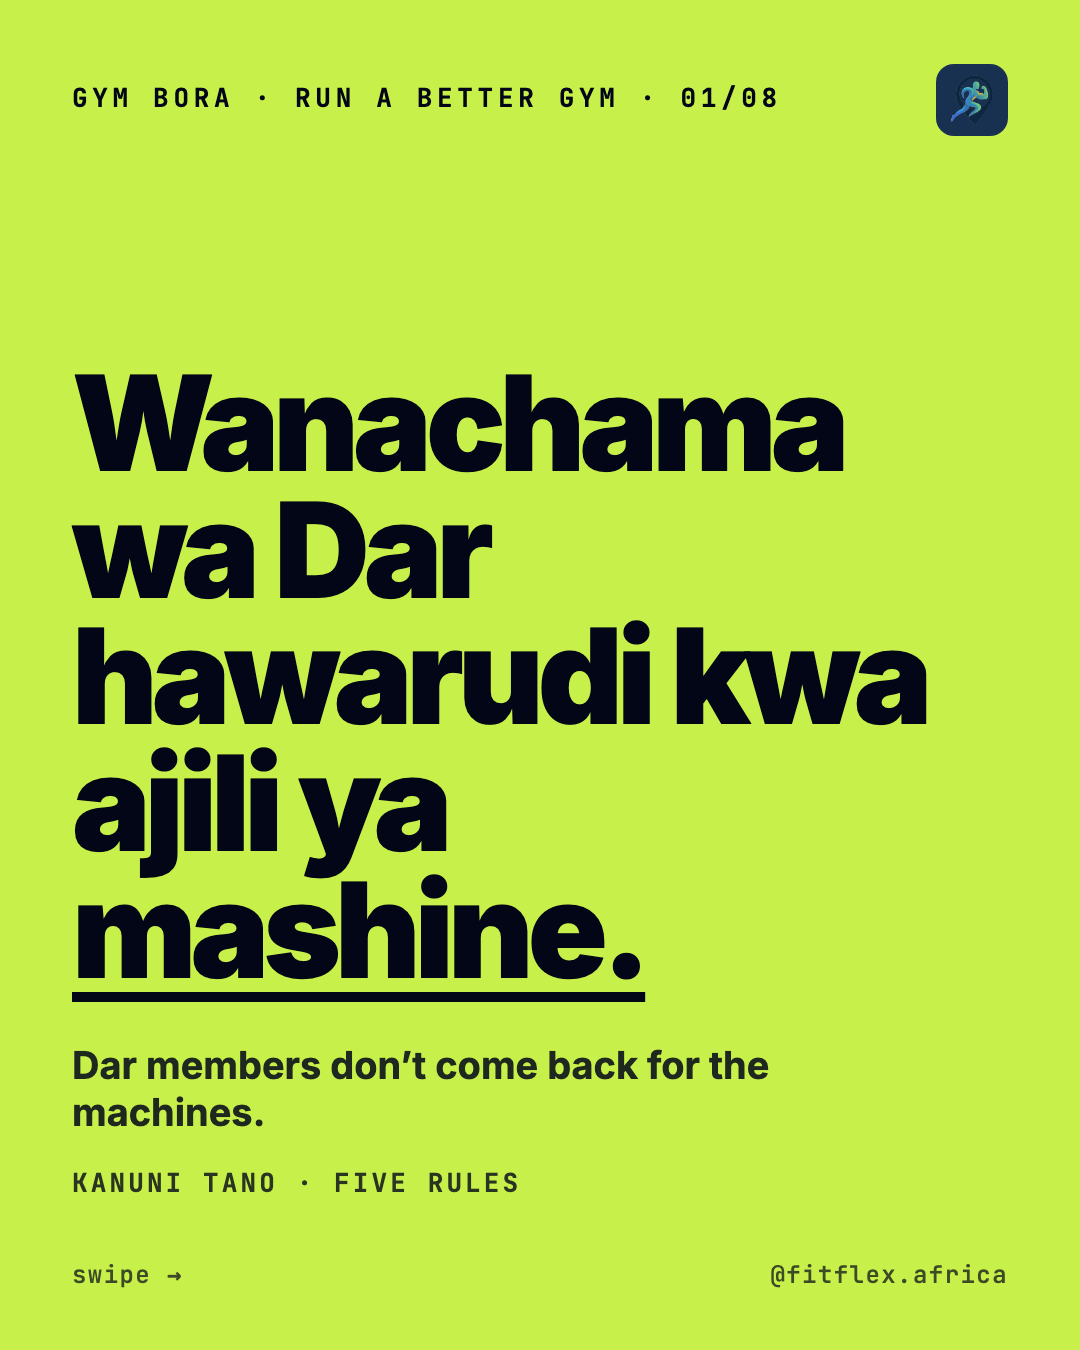
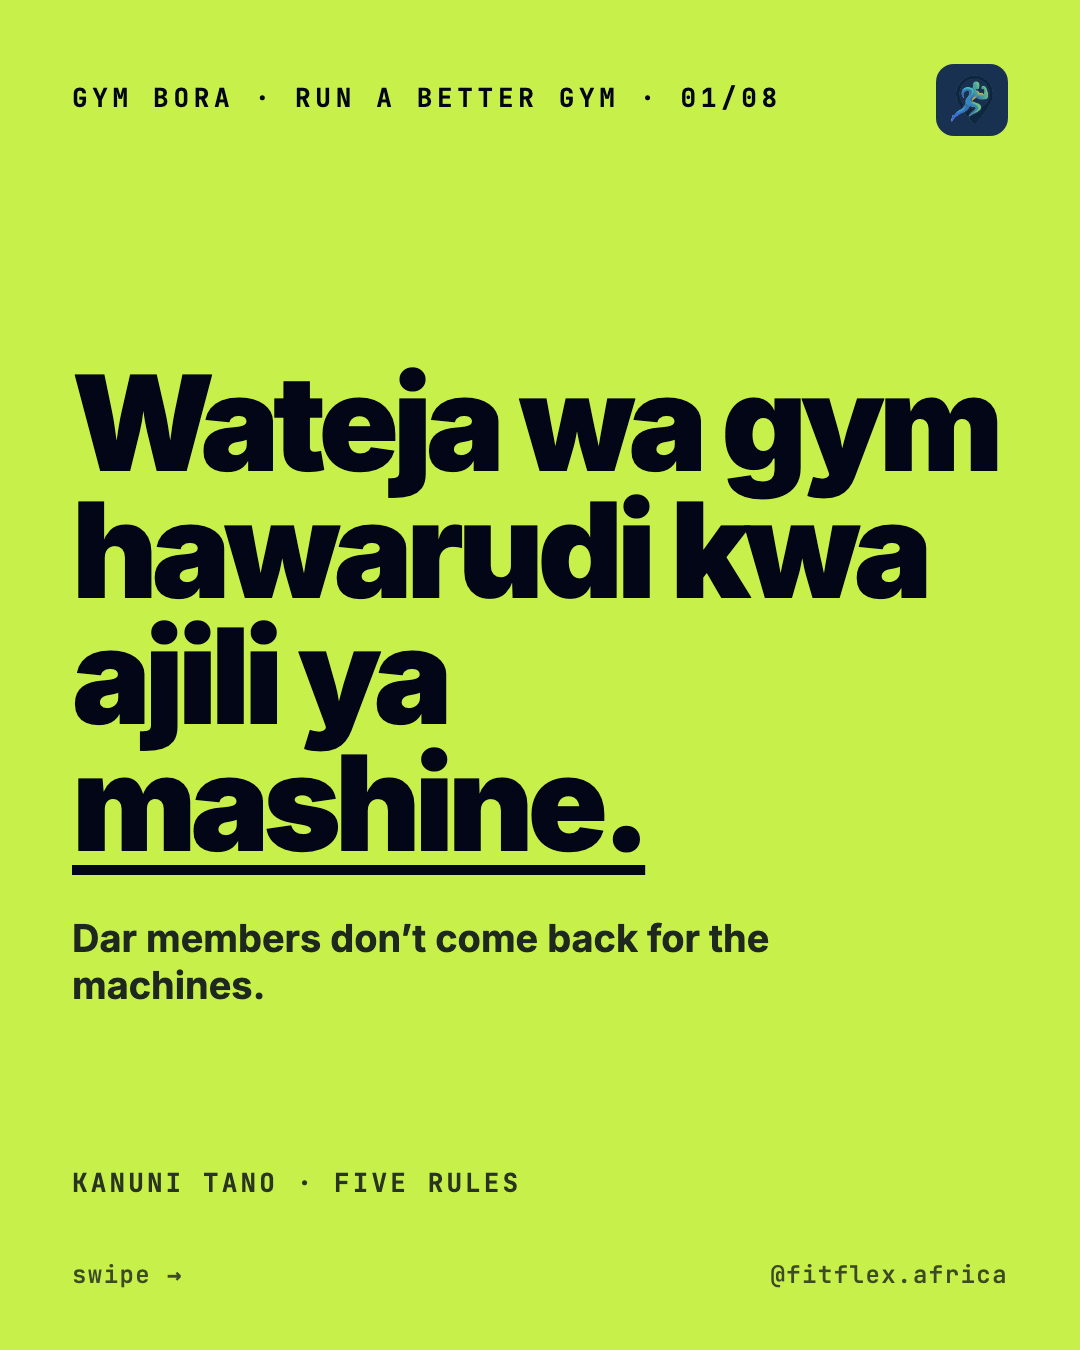
content(social): owner's Swahili edits on the five-rules carousel; Volt cover ruled, alternate with dark

Changed region(s): [[0.0611, 0.2489, 0.9472, 0.7467], [0.0611, 0.7778, 0.7333, 0.84]]

diff --git a/social/content/2026-10-W5-B-owners/source/F01.html b/social/content/2026-10-W5-B-owners/source/F01.html
@@ -13,4 +13,4 @@
  .row{display:flex;align-items:center;gap:26px;padding:26px 0;border-bottom:2px solid #1E293B}.row .mark{width:64px;height:64px;border-radius:50%;display:flex;align-items:center;justify-content:center;font-weight:900;font-size:40px}.row .t{font-weight:900;font-size:64px;letter-spacing:-2px}.row .t small{display:block;font-weight:700;font-size:28px;letter-spacing:0;color:#94A3B8}
  .card{position:absolute;left:72px;right:72px;top:300px;background:#0F172A;border:2px solid #1E293B;border-radius:36px;padding:64px}
  .bar{position:absolute;left:72px;top:150px;width:120px;height:12px;border-radius:6px;background:#C8F04A}
- </style></head><body><div class="eyebrow">Gym bora · run a better gym · 01/08</div><img class="logo" src="file:///Users/chollo/FitFlex-worktrees/social-phase1/social/brand/assets/fitflex-logo.png"><div style="position:absolute;left:72px;right:72px;top:360px"><h1 style="font-size:132px">Wanachama wa Dar hawarudi kwa ajili ya <em>mashine.</em></h1><div class="en" style="margin-top:48px;max-width:880px">Dar members don’t come back for the machines.</div></div><div style="position:absolute;left:72px;right:72px;bottom:150px;font-family:Mono;font-weight:700;font-size:26px;letter-spacing:.12em;text-transform:uppercase;color:#020617;opacity:.8">Kanuni tano · five rules</div><div class="swipe">swipe →</div><div class="handle">@fitflex.africa</div></body></html>
+ </style></head><body><div class="eyebrow">Gym bora · run a better gym · 01/08</div><img class="logo" src="file:///Users/chollo/FitFlex-worktrees/social-phase1/social/brand/assets/fitflex-logo.png"><div style="position:absolute;left:72px;right:72px;top:360px"><h1 style="font-size:132px">Wateja wa gym hawarudi kwa ajili ya <em>mashine.</em></h1><div class="en" style="margin-top:48px;max-width:880px">Dar members don’t come back for the machines.</div></div><div style="position:absolute;left:72px;right:72px;bottom:150px;font-family:Mono;font-weight:700;font-size:26px;letter-spacing:.12em;text-transform:uppercase;color:#020617;opacity:.8">Kanuni tano · five rules</div><div class="swipe">swipe →</div><div class="handle">@fitflex.africa</div></body></html>

diff --git a/social/content/2026-10-W5-B-owners/source/F02.html b/social/content/2026-10-W5-B-owners/source/F02.html
@@ -13,4 +13,4 @@
  .row{display:flex;align-items:center;gap:26px;padding:26px 0;border-bottom:2px solid #1E293B}.row .mark{width:64px;height:64px;border-radius:50%;display:flex;align-items:center;justify-content:center;font-weight:900;font-size:40px}.row .t{font-weight:900;font-size:64px;letter-spacing:-2px}.row .t small{display:block;font-weight:700;font-size:28px;letter-spacing:0;color:#94A3B8}
  .card{position:absolute;left:72px;right:72px;top:300px;background:#0F172A;border:2px solid #1E293B;border-radius:36px;padding:64px}
  .bar{position:absolute;left:72px;top:150px;width:120px;height:12px;border-radius:6px;background:#C8F04A}
- </style></head><body><div class="eyebrow">Gym bora · run a better gym · 02/08</div><div class="numeral">01</div><div style="position:absolute;left:72px;right:72px;top:520px"><h1 style="font-size:104px"><em>Karibu</em> ni rep ya kwanza.</h1><div class="en" style="margin-top:40px;max-width:900px">A greeting at the door. By name after week one. Nobody trains hard where they feel like a stranger.</div><div style="margin-top:56px"><span class="chip">Mlangoni · at the door</span></div></div><div class="swipe">swipe →</div><div class="handle">@fitflex.africa</div></body></html>
+ </style></head><body><div class="eyebrow">Gym bora · run a better gym · 02/08</div><div class="numeral">01</div><div style="position:absolute;left:72px;right:72px;top:520px"><h1 style="font-size:104px">Karibu ni <em>step</em> ya kwanza.</h1><div class="en" style="margin-top:40px;max-width:900px">A greeting at the door. By name after week one. Nobody trains hard where they feel like a stranger.</div><div style="margin-top:56px"><span class="chip">Mlangoni · at the door</span></div></div><div class="swipe">swipe →</div><div class="handle">@fitflex.africa</div></body></html>

diff --git a/social/content/2026-10-W5-B-owners/source/F06.html b/social/content/2026-10-W5-B-owners/source/F06.html
@@ -13,4 +13,4 @@
  .row{display:flex;align-items:center;gap:26px;padding:26px 0;border-bottom:2px solid #1E293B}.row .mark{width:64px;height:64px;border-radius:50%;display:flex;align-items:center;justify-content:center;font-weight:900;font-size:40px}.row .t{font-weight:900;font-size:64px;letter-spacing:-2px}.row .t small{display:block;font-weight:700;font-size:28px;letter-spacing:0;color:#94A3B8}
  .card{position:absolute;left:72px;right:72px;top:300px;background:#0F172A;border:2px solid #1E293B;border-radius:36px;padding:64px}
  .bar{position:absolute;left:72px;top:150px;width:120px;height:12px;border-radius:6px;background:#C8F04A}
- </style></head><body><div class="eyebrow">Gym bora · run a better gym · 06/08</div><div class="numeral">05</div><div style="position:absolute;left:72px;right:72px;top:520px"><h1 style="font-size:104px">Mkufunzi anayekurekebisha <em>bila kuombwa.</em></h1><div class="en" style="margin-top:40px;max-width:900px">Without being asked, without selling a package. That is the staff members talk about.</div><div style="margin-top:56px"><span class="chip">Wafanyakazi · staff</span></div></div><div class="swipe">swipe →</div><div class="handle">@fitflex.africa</div></body></html>
+ </style></head><body><div class="eyebrow">Gym bora · run a better gym · 06/08</div><div class="numeral">05</div><div style="position:absolute;left:72px;right:72px;top:520px"><h1 style="font-size:104px">Trainer anayejua <em>mazoezi.</em></h1><div class="en" style="margin-top:40px;max-width:900px">Without being asked, without selling a package. That is the staff members talk about.</div><div style="margin-top:56px"><span class="chip">Wafanyakazi · staff</span></div></div><div class="swipe">swipe →</div><div class="handle">@fitflex.africa</div></body></html>

diff --git a/social/content/2026-10-W5-B-owners/brief.md b/social/content/2026-10-W5-B-owners/brief.md
@@ -26,12 +26,12 @@ Template v3 (2026-10-20, owner asked for more engaging design and Swahili on the
 
 | # | Kind | Text | Photo |
 |---|---|---|---|
-| 1 | cover | SW: Wanachama wa Dar hawarudi kwa ajili ya mashine. — EN: Dar members don't come back for the machines. | none |
-| 2 | rule | SW: Karibu ni rep ya kwanza. — EN: A greeting at the door. By name after week one. Nobody trains hard where they feel like a stranger. Chip: Mlangoni · at the door | none |
+| 1 | cover | SW: Wateja wa gym hawarudi kwa ajili ya mashine. — EN: Dar members don't come back for the machines. | none |
+| 2 | rule | SW: Karibu ni step ya kwanza. — EN: A greeting at the door. By name after week one. Nobody trains hard where they feel like a stranger. Chip: Mlangoni · at the door | none |
 | 3 | rule | SW: Jiandae na umeme kukatika. — EN: A fan that works, water that runs, light when TANESCO lets you down. Members remember the gym that was ready. Chip: Umeme · power | none |
 | 4 | rule | SW: Chumba cha kubadilishia ndiyo review. — EN: A clean floor, a hook for the bag, a mirror that isn't cracked. That is what they describe to a friend. Chip: Usafi · cleanliness | none |
 | 5 | rule | SW: Waache walipe jinsi Dar inavyolipa. — EN: M-Pesa or Airtel Money at the desk, receipt on the phone. Not "come back tomorrow with cash". Chip: Malipo · payment | none |
-| 6 | rule | SW: Mkufunzi anayekurekebisha bila kuombwa. — EN: Without being asked, without selling a package. That is the staff members talk about. Chip: Wafanyakazi · staff | none |
+| 6 | rule | SW: Trainer anayejua mazoezi. — EN: Without being asked, without selling a package. That is the staff members talk about. Chip: Wafanyakazi · staff | none |
 | 7 | check | SW: FitFlex inakagua kila gym kabla haijajiunga. — EN: FitFlex scores every gym on all of this before it joins. Not just the weights. Rows: Vifaa, Huduma, Jengo, Wafanyakazi | none |
 | 8 | cta | SW: Una gym Dar es Salaam? Andika — EN: Own a gym in Dar es Salaam? Comment PARTNER. Tutakutumia DM jinsi FitFlex inavyofanya kazi. | none |
 
@@ -48,7 +48,7 @@ Headlines 80–132 px Inter 900 (cover 132 on Volt with on-volt text, rules 104,
 > Own a gym in Dar? Comment PARTNER.
 
 **Swahili**
-> Wanachama wa Dar hawarudi kwa ajili ya mashine. Wanarudi kwa ajili ya karibu mlangoni, feni inayofanya kazi umeme ukikatika, chumba cha kubadilishia nguo wanachokisifia kwa rafiki, kulipa kwa M-Pesa, na mtu uwanjani anayerekebisha mazoezi yao. Kanuni tano, hazihitaji vifaa.
+> Wateja wa gym hawarudi kwa ajili ya mashine. Wanarudi kwa ajili ya karibu mlangoni, feni inayofanya kazi umeme ukikatika, chumba cha kubadilishia nguo wanachokisifia kwa rafiki, kulipa kwa M-Pesa, na mtu uwanjani anayerekebisha mazoezi yao. Kanuni tano, hazihitaji vifaa.
 > Una gym Dar? Andika PARTNER.
 
 Swahili is a Claude draft; the owner chose to proceed without native review for now. "TANESCO" (slide 3) is the national power utility; keep it, Dar readers know it.
@@ -73,7 +73,7 @@ Comment **PARTNER** → the owner replies by DM himself (decided 2026-10-20). On
 ## Checks before approval
 
 - [x] Brand review of the v3 bilingual build: pass 2026-10-20 (15 of 15); F06 reworded after the reviewer's note on 'uwanjani'
-- [ ] Swahili on the slides is a Claude draft: the owner should read every Swahili line before approving, since it is now the lead text, not a caption
-- [ ] Owner confirms the Volt-ground cover (canon still says social slides are dark-ground only; the cover is a proposal, not yet a ruling)
+- [x] Owner read the Swahili and changed three lines 2026-10-20 (cover, rule 1, rule 5); the rest stand as drafts accepted by the owner
+- [x] Owner 2026-10-20: Volt cover is fine, alternate with dark covers across posts (written into canon)
 - [ ] Owner comfortable with the TANESCO mention and with "Not “come back tomorrow with cash”" as tone
 - [ ] Confirm the vetting rubric still weighs amenities, facility and staffing (glossary) before claiming "scores every gym on all of this"

diff --git a/.claude/agents/social-brand-reviewer.md b/.claude/agents/social-brand-reviewer.md
@@ -18,7 +18,7 @@ You review one content record under `social/content/<id>/`. Input: the record id
 | Rule | Pass when |
 |---|---|
 | Palette | Every colour in `slides.json` themes resolves to `brand-tokens.json`; primary green is `#1F7A3A`; no brand colour on white |
-| Light and dark | Template v1: at least two slides on a light ground and two on a dark ground. Template v2 (`style: v2`, owner choice 2026-10-19): dark-only is accepted; check instead that photo slides carry a scrim and type slides vary in size and layout. Template v3 (`style: v3`): dark slides as v2, plus a Volt-ground cover is allowed only with on-volt `#020617` text and nothing Volt-coloured on it (proposal of 2026-10-20; confirm the owner has ruled before passing a record that uses it) |
+| Light and dark | Template v1: at least two slides on a light ground and two on a dark ground. Template v2 (`style: v2`, owner choice 2026-10-19): dark-only is accepted; check instead that photo slides carry a scrim and type slides vary in size and layout. Template v3 (`style: v3`): dark slides as v2, plus a Volt-ground cover with on-volt `#020617` text and nothing Volt-coloured on it (owner ruling 2026-10-20); covers should alternate Volt and dark across consecutive posts, flag two Volt covers in a row |
 | Logo | FitFlex logo appears, not stretched, not on a busy photo without a scrim; wordmark "Af" gold if the wordmark is used |
 | Type | Inter for headlines and body; hierarchy readable at phone size (headline ≥ 84 px on a 1080-wide slide) |
 | Voice | Confident, concrete, local; addresses "you"; brand called "FitFlex"; no "cheapest" or savings claim |

diff --git a/social/brand/brand-block.md b/social/brand/brand-block.md
@@ -8,7 +8,7 @@ Source of truth: `canon/04-marketing/design-system.md` (founder's workspace). To
 
 ## Do
 
-- Social slides (template v2, owner 2026-10-20): deep slate `#020617` ground, Inter 900 headline with one word in Volt `#C8F04A`, JetBrains Mono eyebrow, Fuel `#FF8A6B` only for an "act now" row, photos under a dark scrim. Volt never as text on a light ground; a Volt-ground cover slide with on-volt `#020617` text is a v3 proposal awaiting the owner's ruling; green `#1F7A3A` for any light piece. Template v3 puts Swahili as the lead text on slides with English under it.
+- Social slides (template v2, owner 2026-10-20): deep slate `#020617` ground, Inter 900 headline with one word in Volt `#C8F04A`, JetBrains Mono eyebrow, Fuel `#FF8A6B` only for an "act now" row, photos under a dark scrim. Volt never as text on a light ground; a cover slide may use a Volt ground with on-volt `#020617` text (owner 2026-10-20), alternating Volt and dark covers across consecutive posts; green `#1F7A3A` for any light piece. Template v3 puts Swahili as the lead text on slides with English under it.
 
 - Build on navy or cream; put green, amber and gold on those grounds.
 - Use the role colour when a post targets one audience: member green `#1F7A3A`, owner amber `#FF9800`, trainer blue `#3B82F6`, vendor purple `#A855F7`, corporate indigo `#6366F1`.
